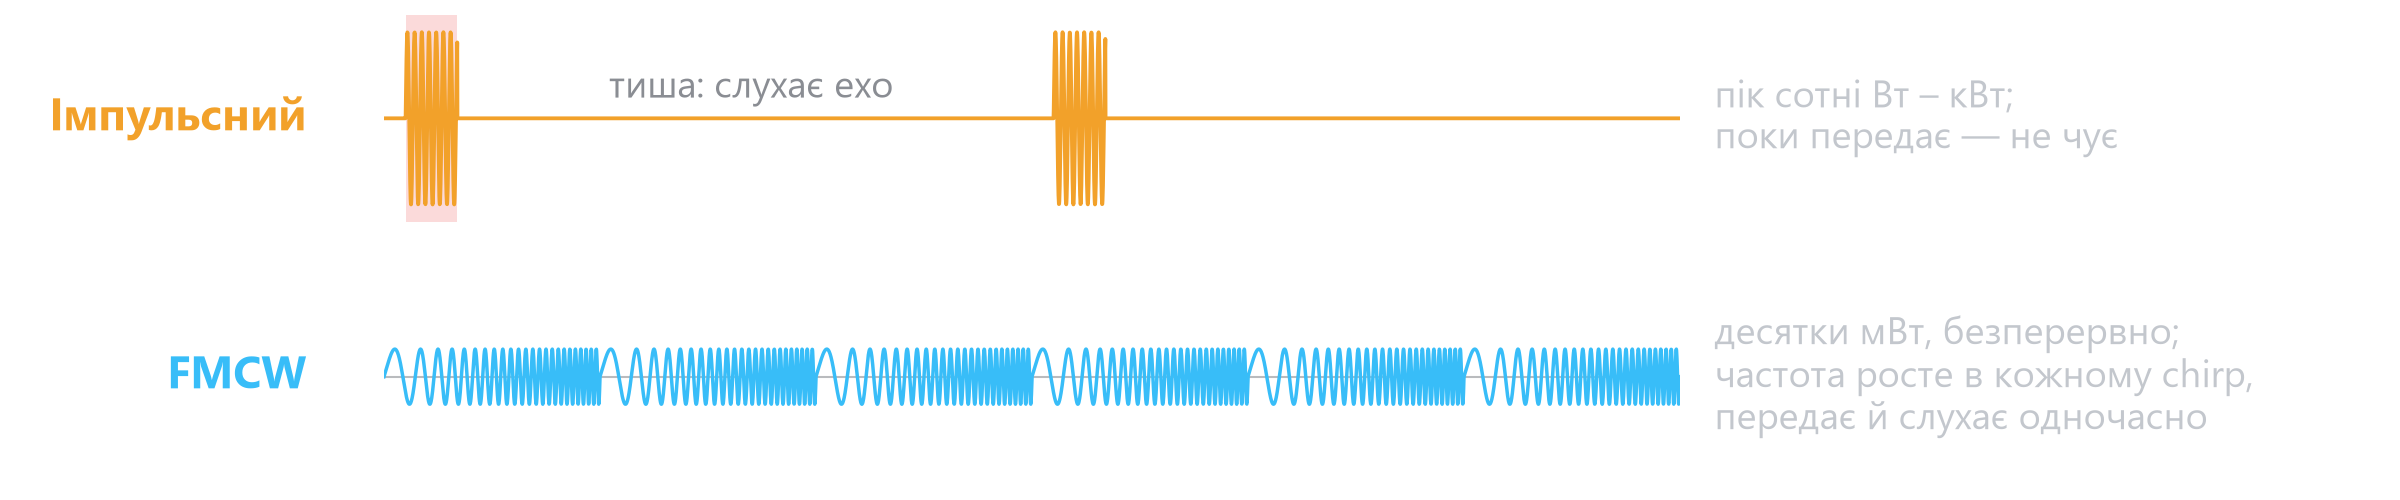
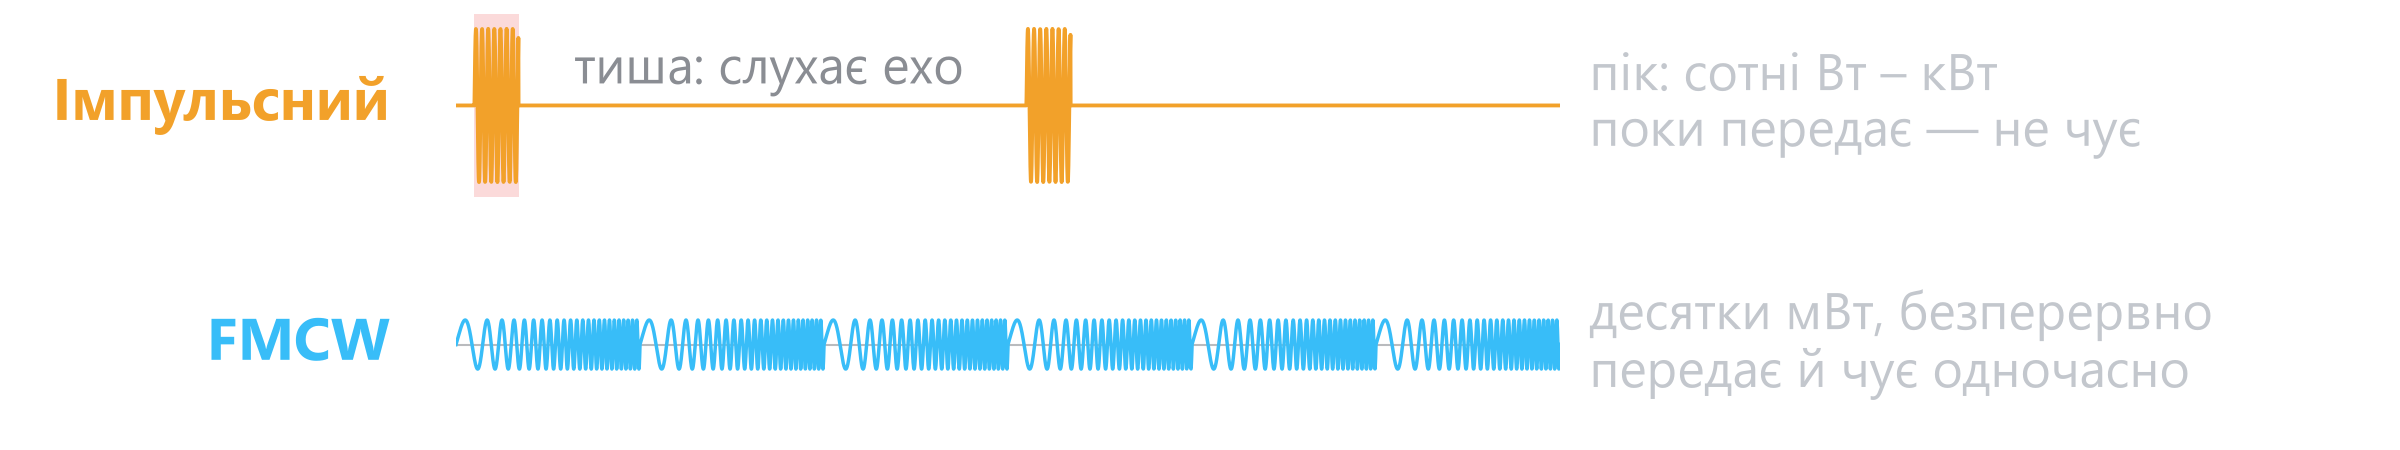
Slide 13: larger text in figures

Changed region(s): [[0.0625, 0.6222, 0.9375, 0.8711], [0.0, 0.0311, 0.9062, 0.4667]]

diff --git a/scripts/p13_fmcw_why.py b/scripts/p13_fmcw_why.py
@@ -25,9 +25,9 @@ RED = "#ef6b6b"
 
 
 # ---- waveforms: pulsed (high peak, then silence) vs FMCW (low, continuous, rising frequency) ----
-fig, axes = plt.subplots(2, 1, figsize=(9.6, 2.0), sharex=True)
+fig, axes = plt.subplots(2, 1, figsize=(9.6, 1.8), sharex=True)
 fig.patch.set_alpha(0)
-fig.subplots_adjust(left=0.16, right=0.70, top=0.97, bottom=0.04, hspace=0.25)
+fig.subplots_adjust(left=0.19, right=0.65, top=0.97, bottom=0.03, hspace=0.3)
 t = np.linspace(0, 3, 6000)
 
 ax = axes[0]
@@ -38,10 +38,10 @@ for t0 in (0.05, 1.55):
 ax.plot(t, y, color=PULSE, lw=1.1)
 ax.axvspan(0.05, 0.17, color=RED, alpha=0.25, lw=0)
 ax.set_ylim(-1.2, 1.2)
-ax.text(-0.06, 0, "Імпульсний", color=PULSE, fontsize=13, fontweight="bold", ha="right", va="center",
+ax.text(-0.06, 0, "Імпульсний", color=PULSE, fontsize=17, fontweight="bold", ha="right", va="center",
         transform=ax.get_yaxis_transform())
-ax.text(0.85, 0.35, "тиша: слухає ехо", color=MUTED, fontsize=11, ha="center", va="center")
-ax.text(3.08, 0, "пік сотні Вт – кВт;\nпоки передає — не чує", color=BODY, fontsize=11, va="center")
+ax.text(0.85, 0.45, "тиша: слухає ехо", color=MUTED, fontsize=15, ha="center", va="center")
+ax.text(3.08, 0, "пік: сотні Вт – кВт\nпоки передає — не чує", color=BODY, fontsize=15, va="center")
 
 ax = axes[1]
 tc = 0.5  # chirp period, schematic
@@ -49,10 +49,10 @@ tau = t % tc
 y = 0.32 * np.sin(2 * np.pi * (8 * tau + 40 * tau ** 2 / tc) / tc * tc)
 ax.plot(t, y, color=CYAN, lw=1.0)
 ax.set_ylim(-1.2, 1.2)
-ax.text(-0.06, 0, "FMCW", color=CYAN, fontsize=13, fontweight="bold", ha="right", va="center",
+ax.text(-0.06, 0, "FMCW", color=CYAN, fontsize=17, fontweight="bold", ha="right", va="center",
         transform=ax.get_yaxis_transform())
-ax.text(3.08, 0, "десятки мВт, безперервно;\nчастота росте в кожному chirp,\nпередає й слухає одночасно",
-        color=BODY, fontsize=11, va="center")
+ax.text(3.08, 0, "десятки мВт, безперервно\nпередає й чує одночасно",
+        color=BODY, fontsize=15, va="center")
 for ax in axes:
     ax.set_xlim(0, 3)
     ax.axis("off")
@@ -91,9 +91,9 @@ ax.plot(*zip(R, R + 8.8 * los), color=CYAN, lw=1, ls=(0, (4, 3)), alpha=0.8)
 # radar icon
 ax.add_patch(Polygon([R + [-0.35, -0.45], R + [0.35, -0.45], R + [0, 0.1]], closed=True, color=MUTED))
 ax.add_patch(plt.Circle(R + [0, 0.12], 0.17, color=FG))
-ax.text(R[0], R[1] - 0.75, "радар", color=MUTED, fontsize=11, ha="center", va="top")
+ax.text(R[0], R[1] - 0.75, "радар", color=MUTED, fontsize=15, ha="center", va="top")
 
-drone(ax, *D, 0.3, FG)
+drone(ax, *D, 0.38, FG)
 theta = np.radians(55)  # angle between v and the line of sight
 v = 1.9 * (np.cos(theta) * -los + np.sin(theta) * perp)  # moving towards the radar and sideways
 vr = np.dot(v, -los) * -los
@@ -111,13 +111,13 @@ da = (a1 - a0 + 180) % 360 - 180  # signed shortest turn from -los to v
 arc = np.radians(a0 + np.linspace(0, da, 30))
 ax.plot(D[0] + 0.6 * np.cos(arc), D[1] + 0.6 * np.sin(arc), color=FG, lw=1)
 am = np.radians(a0 + da / 2)
-ax.text(D[0] + 0.85 * np.cos(am), D[1] + 0.85 * np.sin(am), "θ", color=FG, fontsize=13, ha="center", va="center")
+ax.text(D[0] + 0.85 * np.cos(am), D[1] + 0.85 * np.sin(am), "θ", color=FG, fontsize=18, ha="center", va="center")
 
-ax.text(*(D + v + [0.1, 0.12]), r"$\mathbf{v}$", color=FG, fontsize=16, ha="left", va="bottom")
-ax.text(*(D + vr + [-0.05, -0.3]), r"$\mathbf{v_r}$", color=CYAN, fontsize=16, ha="center", va="top")
-ax.text(*(D + vp + [0.15, 0]), r"$v_\perp$", color=MUTED, fontsize=15, ha="left", va="center")
-ax.text(9.8, 0.55, "Doppler бачить лише $v_r = v\\cdot\\cos\\,θ$\nθ = 90° → $v_r = 0$: дрон «нерухомий»",
-        color=BODY, fontsize=11.5, ha="right", va="center", linespacing=1.4)
+ax.text(*(D + v + [0.1, 0.12]), r"$\mathbf{v}$", color=FG, fontsize=21, ha="left", va="bottom")
+ax.text(*(D + vr + [-0.05, -0.3]), r"$\mathbf{v_r}$", color=CYAN, fontsize=21, ha="center", va="top")
+ax.text(*(D + vp + [0.15, 0]), r"$v_\perp$", color=MUTED, fontsize=20, ha="left", va="center")
+ax.text(9.9, 0.5, "Doppler бачить лише $v_r = v\\cdot\\cos\\,θ$\nθ = 90° → $v_r = 0$: дрон «нерухомий»",
+        color=BODY, fontsize=16, ha="right", va="center", linespacing=1.4)
 fig.savefig(os.path.join(out_dir, "p13_doppler_vr.png"), dpi=300, transparent=True)
 plt.close(fig)
 print("ok")
